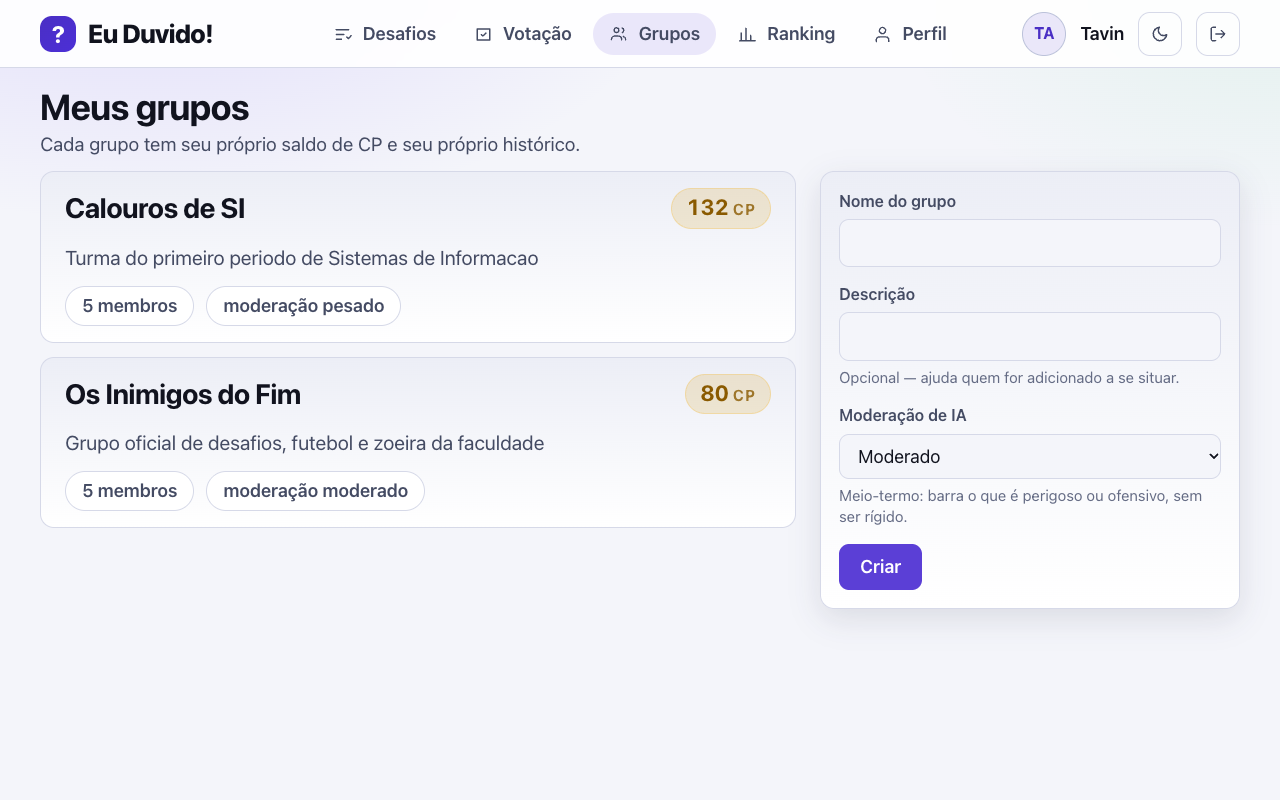
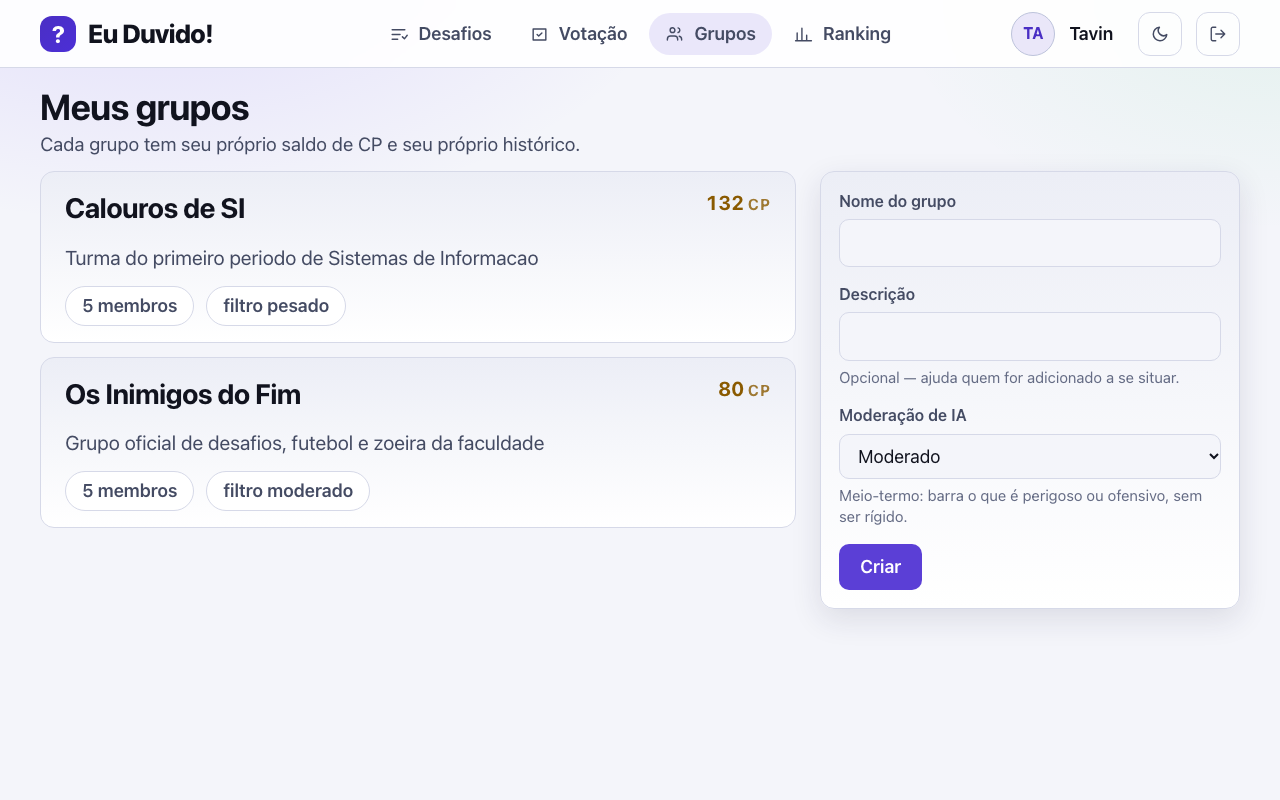
docs: capturas e textos das telas 22-29 com a interface do redesign

diff --git a/docs/04-ux/telas/24-tela-meus-desafios.md b/docs/04-ux/telas/24-tela-meus-desafios.md
@@ -16,15 +16,13 @@ Dashboard principal do usuário com os desafios em que está envolvido (RF04, RF
 
 | Especificado | Implementado |
 | --- | --- |
-| Filtro pelos seis status | Sim |
-| Cartão com título, grupo, categoria, custo, recompensa e prazo | Sim |
-| Separar "criei" de "participo" | Sim, nos filtros à direita |
-| Atalho para votação em `EM_VOTACAO` | Sim, selo **Vote agora** |
+| Filtro pelos seis status | Em duas abas, **Ativos** e **Encerrados**, com filtro por grupo; o status aparece em cada linha |
+| Cartão com título, grupo, categoria, custo, recompensa e prazo | Sim, numa linha com a etapa do desafio (aberto, em andamento, no júri, resultado) |
+| Separar "criei" de "participo" | Sim; cada linha diz o meu papel no desafio |
+| Atalho para votação em `EM_VOTACAO` | Sim, no bloco **Sua vez** do topo, com o botão **Votar** |
 
-Na captura acima, quando o cartão tinha selo de prazo e de votação ao mesmo
-tempo, os selos se sobrepunham. O redesign de UI/UX
-([proposta 01](../propostas/README.md)) trocou os selos por texto com ponto e
-resolveu o defeito.
+O redesign de UI/UX ([proposta 01](../propostas/README.md)) pôs no topo o que
+pede ação agora: prova esperando voto, prova a enviar e desafio aberto.
 
 *Captura do sistema rodando com o seed da demonstração, gerada por [`scripts/telas/capturar-telas.mjs`](../../../scripts/telas/capturar-telas.mjs).*
 

diff --git a/docs/04-ux/telas/26-tela-detalhe-desafio.md b/docs/04-ux/telas/26-tela-detalhe-desafio.md
@@ -18,11 +18,11 @@ Visão completa de um desafio específica: participantes, evidências e resultad
 
 | Especificado | Implementado |
 | --- | --- |
-| Cabeçalho com status, custo, pote, recompensa e prazo | Sim |
-| Participantes com papel e escolha | Sim; **Aceitar** aparece para quem ainda não participa de desafio `ABERTA` |
-| Evidências com status e votos | Sim, com quórum e prazo de votação |
+| Cabeçalho com status, custo, pote, recompensa e prazo | Sim, com a linha do tempo das etapas |
+| Participantes com papel e escolha | Sim, em confronto: quem diz que cumpre contra quem diz que não, e quanto cada um ganha. Quem ainda não participa de desafio `ABERTA` escolhe o papel e clica em **Entrar como…** |
+| Evidências com status e votos | Sim, com quórum, prazo e os jurados (quem já votou, sem mostrar o voto) |
 | Envio de evidência | Sim, pelo `DESAFIADO`, como **URL** do comprovante. Upload direto de arquivo não foi implementado ([19 - Limitações](../../06-encerramento/19-limitacoes-e-melhorias.md)) |
-| Cancelamento com motivo | Sim, só para quem criou e enquanto não encerrado |
+| Cancelamento com motivo | Sim, no menu "⋯" com diálogo de confirmação, só para quem criou e enquanto não encerrado |
 
 *Captura do sistema rodando com o seed da demonstração, gerada por [`scripts/telas/capturar-telas.mjs`](../../../scripts/telas/capturar-telas.mjs).*
 

diff --git a/docs/04-ux/telas/25-tela-criar-desafio.md b/docs/04-ux/telas/25-tela-criar-desafio.md
@@ -17,14 +17,14 @@ Criação de um novo desafio (RF03, RF04, RF05).
 ![Formulário de novo desafio](img/25-criar-desafio.png)
 
 Proposta recusada pela IA real (Groq, nível `MODERADO`): o motivo aparece no
-quadro *Moderação de IA* e nada é criado (RN28).
+quadro *Moderação do grupo* e nada é criado (RN28).
 
 ![Proposta recusada pela moderação de IA](img/25-criar-desafio-recusado.png)
 
 | Especificado | Implementado |
 | --- | --- |
-| Título, descrição, grupo, categoria, custo, prazo, recompensa | Sim |
-| Moderação de IA antes de criar | Sim; o quadro mostra o nível do grupo |
+| Título, descrição, grupo, categoria, custo, prazo, recompensa | Sim; grupo e categoria em cartões, custo e prazo com atalhos, prévia ao vivo ao lado |
+| Moderação de IA antes de criar | Sim, como etapa: cada grupo mostra o seu filtro e o quadro explica recusa e indisponibilidade |
 | Selecionar participantes na criação | **Não.** O desafio nasce `ABERTA` sem participantes; cada membro entra pela tela de detalhe, escolhendo papel e escolha (RN09, débito por `debitar_escrow`) |
 
 *Captura do sistema rodando com o seed da demonstração, gerada por [`scripts/telas/capturar-telas.mjs`](../../../scripts/telas/capturar-telas.mjs).*

diff --git a/docs/04-ux/telas/23-tela-meus-grupos.md b/docs/04-ux/telas/23-tela-meus-grupos.md
@@ -22,9 +22,9 @@ Gestão de grupos privados de amigos (RF02).
 | Lista de grupos com saldo | Sim |
 | Criar grupo | Sim |
 | Adicionar membro (só `ADMIN`) | Sim, por e-mail de usuário já cadastrado; entra com 100 CP (RN06) |
-| Detalhe: membros com papel e saldo | Sim, com **Remover** para o `ADMIN` e **Sair do grupo** (RN25, `SAIDA_GRUPO`) |
-| Detalhe: desafios do grupo | **Não.** Os desafios aparecem em *Meus desafios*, com o nome do grupo no cartão |
-| Nível de filtro (só `ADMIN`) | Sim, em *Moderação de IA* (RN27) |
+| Detalhe: membros com papel e saldo | Sim. **Remover do grupo…** fica no menu "⋯" do membro, só para o `ADMIN`, e **Sair do grupo…** no fim da página; os dois pedem confirmação e avisam quem tem desafio ou júri em aberto (RN25, `SAIDA_GRUPO`) |
+| Detalhe: desafios do grupo | Sim, na aba **Desafios**; a aba **Ranking** leva ao ranking do grupo |
+| Nível de filtro (só `ADMIN`) | Sim, em *Filtro da IA para novos desafios*, com um exemplo aprovado e um recusado por nível (RN27) |
 
 *Captura do sistema rodando com o seed da demonstração, gerada por [`scripts/telas/capturar-telas.mjs`](../../../scripts/telas/capturar-telas.mjs).*
 

diff --git a/docs/04-ux/telas/27-tela-central-votacao.md b/docs/04-ux/telas/27-tela-central-votacao.md
@@ -18,9 +18,9 @@ Validação por evidência pelos membros do grupo (RF07).
 
 | Especificado | Implementado |
 | --- | --- |
-| Evidências pendentes, inclusive as já votadas | Sim, marcadas como **Já votado** |
-| Contagem de votos, quórum e prazo | Sim |
-| Votar `VALIDO`/`INVALIDO` com justificativa | Sim; justificativa opcional |
+| Evidências pendentes, inclusive as já votadas | Sim; as já votadas dizem **Você já votou.** |
+| Contagem de votos, quórum e prazo | Sim, e avisa quando o meu voto fecha o júri |
+| Votar `VALIDO`/`INVALIDO` com justificativa | Sim: **Vale** ou **Não vale**, confirmação com motivos prontos e justificativa opcional; depois do voto que fecha o júri, a tela mostra o resultado e o pagamento |
 
 *Captura do sistema rodando com o seed da demonstração, gerada por [`scripts/telas/capturar-telas.mjs`](../../../scripts/telas/capturar-telas.mjs).*
 

diff --git a/docs/04-ux/telas/29-tela-perfil.md b/docs/04-ux/telas/29-tela-perfil.md
@@ -18,7 +18,7 @@ Dados do usuário e histórico pessoal. Confirmado no escopo do MVP.
 | --- | --- |
 | Dados do usuário | Sim (nome, apelido, e-mail, data de cadastro) |
 | Edição de nome e apelido | **Não implementada** |
-| Saldo por grupo e extrato | Sim; o extrato lê o ledger `transacao_cp` com saldo acumulado |
+| Saldo por grupo e extrato | Sim; saldo e posição no ranking de cada grupo, e o extrato lê o ledger `transacao_cp` com saldo acumulado e o grupo de cada lançamento |
 | Histórico: criados, participações, evidências | Sim |
 
 *Captura do sistema rodando com o seed da demonstração, gerada por [`scripts/telas/capturar-telas.mjs`](../../../scripts/telas/capturar-telas.mjs).*

diff --git a/docs/05-qualidade/registro-ia/2026-10-31-tela-inicial-abertura.md b/docs/05-qualidade/registro-ia/2026-10-31-tela-inicial-abertura.md
@@ -100,6 +100,15 @@ implementação antes de qualquer publicação.
 * Depois dos testes, o banco foi recriado do seed, com a chave da IA, para a
   demonstração.
 
+## Atualização no merge
+
+Ao mesclar com a `main`, que trouxe a Entrega 4 (#43) e o redesign (#50),
+`scripts/telas/capturar-telas.mjs` passou a dispensar a abertura e a usar o
+formulário novo de criação. As capturas das telas 22–29 foram refeitas com a
+interface atual, inclusive a recusa da IA real. Os textos de "Como ficou
+implementada" foram revisados contra o código: rótulos, abas, menus e
+diálogos.
+
 ## Decisão final
 
 Entram a abertura, a passagem obrigatória por ela e os roteiros ajustados. Nada

diff --git a/docs/04-ux/telas/22-tela-autenticacao.md b/docs/04-ux/telas/22-tela-autenticacao.md
@@ -17,6 +17,8 @@ Cadastro e login de usuários via Google (RF01).
 | Login com Google | Login de desenvolvimento: escolhe-se um usuário do seed. O Google entra quando `Auth:Provider` virar `Google` |
 | Cadastro com apelido e data de nascimento | **Criar conta de teste** pede nome, e-mail, apelido e data de nascimento; menor de 16 anos é recusado (RN26, trigger `trg_usuario_idade_minima`) |
 
+Antes desta tela vem a abertura animada ([30 - Abertura](30-tela-abertura.md)), em toda carga da página.
+
 *Captura do sistema rodando com o seed da demonstração, gerada por [`scripts/telas/capturar-telas.mjs`](../../../scripts/telas/capturar-telas.mjs).*
 
 ## Dados (origem: `usuario`)

diff --git a/docs/04-ux/telas/28-tela-ranking.md b/docs/04-ux/telas/28-tela-ranking.md
@@ -15,7 +15,7 @@ Ranking de maiores desafios e apuração de resultados (RF08).
 
 | Especificado | Implementado |
 | --- | --- |
-| Ranking por grupo, com histórico completo | Sim: desafios, acertos, erros, CP em prêmios e saldo |
+| Ranking por grupo, com histórico completo | Sim: pódio dos três primeiros e tabela com acerto ("acertou X de Y"), CP em prêmios e saldo |
 | Maiores desafios por pote | **Não na tela.** Existe como consulta Q3 em [16 - Consultas SQL](../../03-banco-de-dados/implementacao/16-consultas-sql.md) |
 | % de aprovação, cumpridas × perdidas | **Não na tela.** Acertos e erros aparecem por jogador |
 
